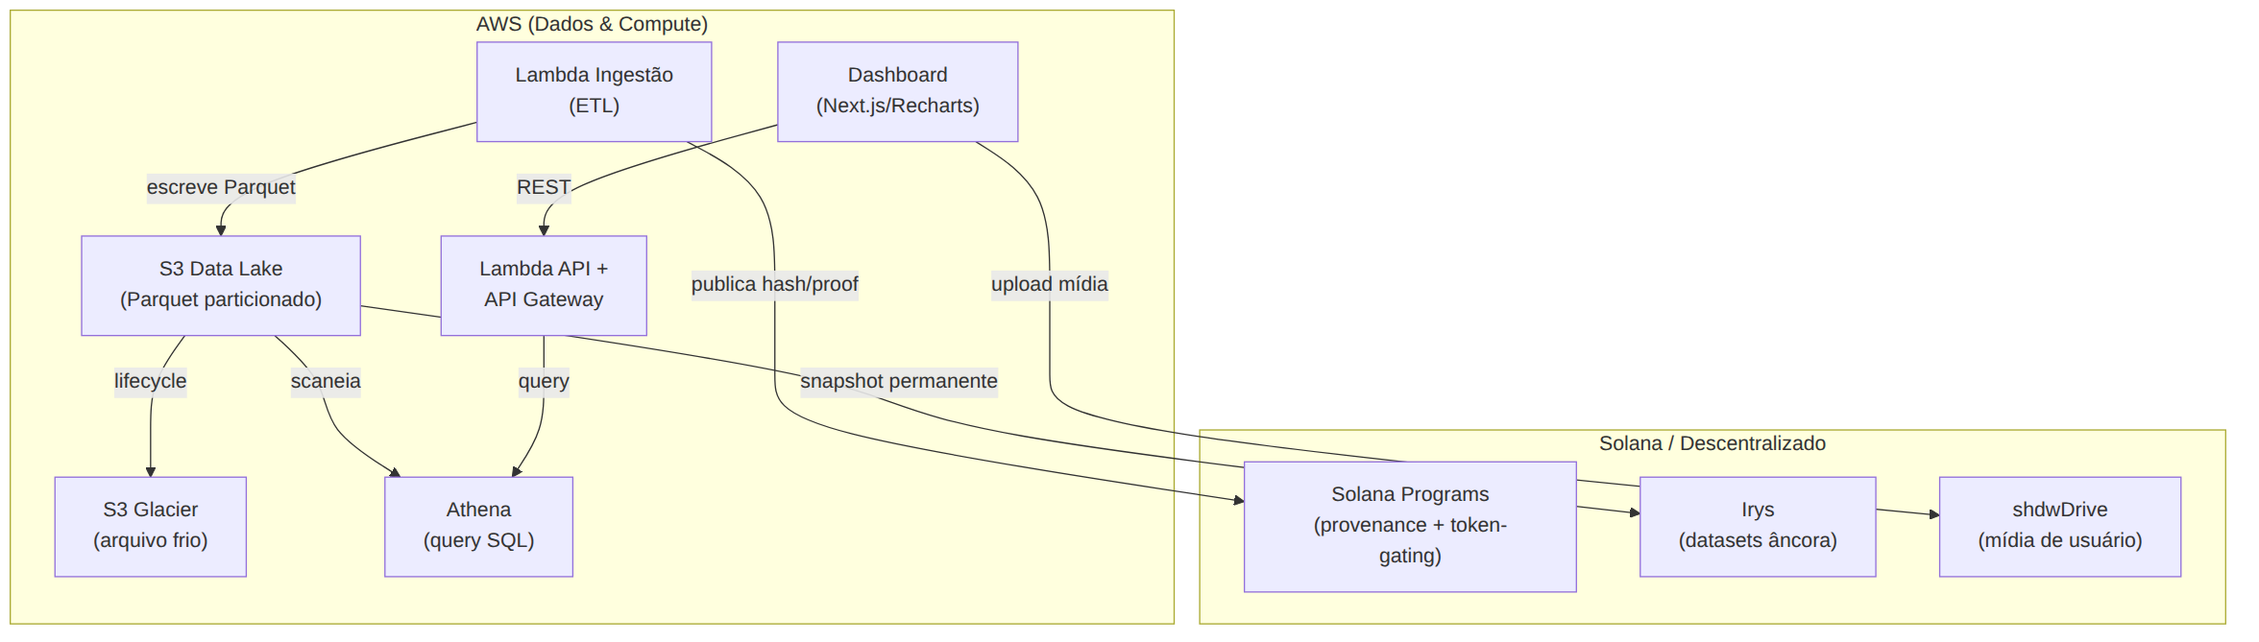
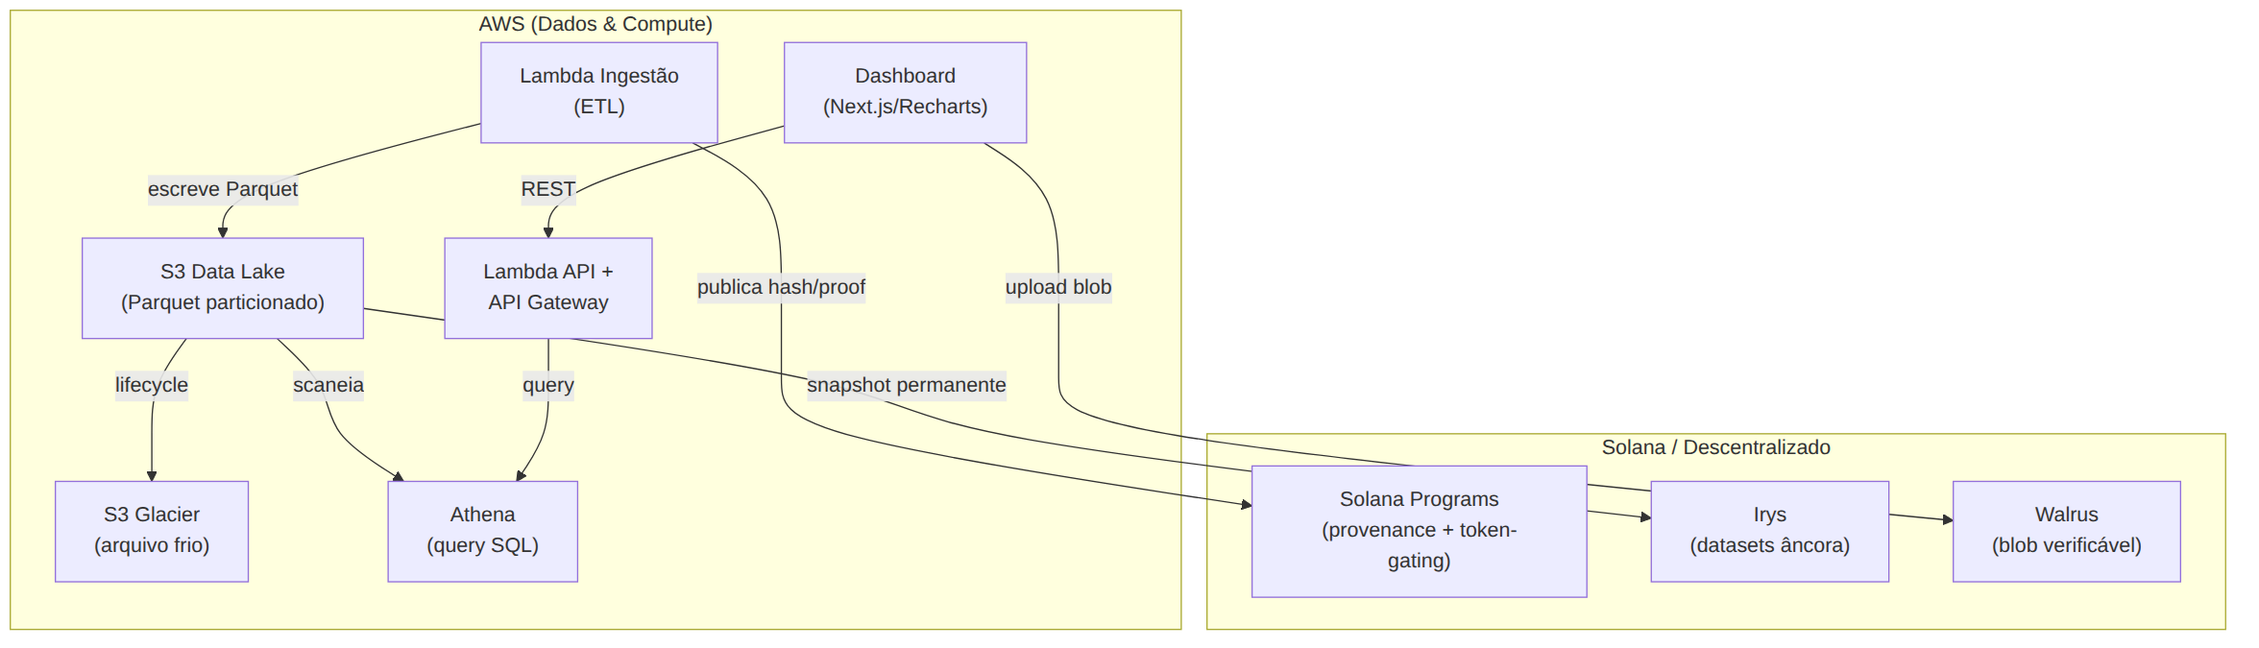
docs(research): Substitui shdwDrive (abandonado) por Walrus + corrige custos e diagramas

diff --git a/docs/research/ARMAZENAMENTO-DESCENTRALIZADO-SOLANA.md b/docs/research/ARMAZENAMENTO-DESCENTRALIZADO-SOLANA.md
@@ -18,24 +18,11 @@ Na Ethereum, o padrão é **IPFS** (roteamento de conteúdo, gratuito) + camada 
 
 ## 2. Soluções Nativas do Ecossistema Solana
 
-### 2.1 shdwDrive / Shadow Drive (GenesysGo) — o "IPFS da Solana"
+### 2.1 ⚠ shdwDrive / Shadow Drive (GenesysGo) — ABANDONADO
 
-Storage layer descentralizada construída **nativamente em Solana**, o análogo direto que o time procura.
+> **Status: projeto descontinuado.** Último release do `shadow-drive` (v1): ago/2023. `shdwDrive-v2-releases` (app Android): fev/2025 (8 stars, 0 issues). Docs oficiais: *"shdwDrive v1.5 is no longer maintained."* **NÃO usar para novos projetos.**
 
-| Aspecto | Detalhe |
-|---------|---------|
-| **Rede** | Solana (consenso próprio D.A.G.G.E.R. para replicação) |
-| **Token** | SHDW (pagamento em USDC para usuários) |
-| **Free tier** | 5 GB gratuito |
-| **Custo mutable** | **US$ 0,05 / GiB / ano** (~US$ 0,000274/GiB por epoch) |
-| **Modos** | Immutable (taxa única) e Mutable (recorrente) |
-| **Limite** | 1 TB por bucket (expansível) |
-| **Operadores** | Stake de SHDW como colateral (1 SHDW ≈ 51,2 MB; mínimo ~1.000 SHDW) |
-| **Revenue split** | 60–75% das taxas → operadores (USDC); resto → buyback SHDW |
-| **Adoção** | Recomendado como backend default por Helius e Triton (RPC providers) |
-
-**Prós:** integração nativa com wallets (Phantom/Solflare), programas e UX Solana; S3-like.
-**Contras:** adoção baixa fora do ecossistema Solana; herdou histórico de downtime da Solana; menos "permanente" que Arweave.
+**Substitutos ativos (ver seção 2.4):** Walrus (camada quente), Irys (permanente).
 
 ### 2.2 Armazenamento On-Chain Direto (Rent / Contas Solana)
 
@@ -97,7 +84,24 @@ Técnica nativa Solana para armazenar **dados de forma comprimida** — hashes e
 
 **Quando usar:** datasets on-chain programáveis, preço mais agressivo que Arweave, integração nativa com Solana (pagamento em SOL via wallet).
 
-### 3.3 Filecoin — storage marketplace (rental / cold storage)
+### 3.3 Walrus (Mysten Labs / Sui) — camada "quente" ativa (substituto do shdwDrive)
+
+> **Substituto recomendado do shdwDrive.** Projeto muito ativo (mainnet mar/2025, 450 TB, raise US$ 140M de Standard Crypto/a16z/Electric Capital, SDK atualizado ago/2026).
+
+| Aspecto | Detalhe |
+|---------|---------|
+| **Rede** | Sui (coordenation/governance) + nós de storage próprios |
+| **Modelo** | Blob storage com erasure coding (~4,5× encoded + 64 MB/blob) |
+| **Custo** | **US$ 0,023 / GB / mês** (fixo, denominado em USD, pago em WAL) |
+| **Permanência** | Term storage por epochs (1 epoch = 1 dia testnet / 2 semanas mainnet), extensível |
+| **Produtos** | Quilt (batch de arquivos pequenos), Seal (privacidade), MemWal (SDK memória p/ agentes) |
+| **Ecosystema** | 450 TB armazenados (superou Arweave), Team Liquid/Decrypt/Allium |
+
+**Quando usar:** dados quentes/mutáveis em volume, storage de blobs, memória de agentes. É cross-chain (não nativo Solana), mas é a alternativa madura e ativamente mantida ao shdwDrive.
+
+**Ressalva:** não é Solana-nativo (roda em Sui). Para integração 100% Solana, usar Irys (paga em SOL).
+
+### 3.4 Filecoin — storage marketplace (rental / cold storage)
 
 | Aspecto | Detalhe |
 |---------|---------|
@@ -129,14 +133,14 @@ Técnica nativa Solana para armazenar **dados de forma comprimida** — hashes e
 |---------|--------|--------------|-------------------|
 | **Solana rent (on-chain)** | Depósito reembolsável | ~696 lamports/byte (pós-redução) | inviável p/ big data |
 | **State Compression (cNFT)** | Hash on-chain | ~US$ 0,000005 / asset | escala massiva de ativos |
-| **shdwDrive (mutable)** | Recorrente | **US$ 0,05 / GB / ano** | ~US$ 50 / ano |
+| **Walrus (blob)** | Recorrente | **US$ 0,023 / GB / mês** (encoded 4,5×) | ~US$ 282 / TB / ano |
 | **Irys (permanente)** | One-time | **US$ 2,33 / GB** | ~US$ 2.382 |
 | **Arweave (permanente)** | One-time | ~US$ 36,5 / GB | ~US$ 37.362 |
 | **Filecoin (cold)** | Recorrente | US$ 0,002–0,02 / GB / mês | US$ 24–240 / ano |
 | **IPFS + Pinata** | Recorrente | US$ 0,15–0,50 / GB / mês | US$ 600–1.800 / ano |
 
 **Leitura de custo (ordem de grandeza por TB/ano):**
-- Mais barato recorrente: **shdwDrive (~US$ 50/TB/ano)** e **Filecoin cold (~US$ 24/TB/ano)**
+- Mais barato recorrente: **Filecoin cold (~US$ 24/TB/ano)**; Walrus custa ~US$ 282/TB/ano (encoded 4,5×) — no nível de S3 Standard.
 - Mais barato permanente: **Irys (~US$ 2,33/GB)**, depois Arweave (~US$ 36/GB)
 
 ---
@@ -153,7 +157,7 @@ O produto armazena datasets públicos (IPCA, ANP, commodities) com atualização
 
 3. **Datasets públicos "âncora" / permanentes** → **Irys** (US$ 2,33/GB one-time) como backup imutável e proof-of-existence, com wallet Solana.
 
-4. **Arquivos/mídia de usuários** (Passo 3, se houver) → **shdwDrive** (US$ 0,05/GB/ano) — nativo Solana, S3-like, free 5GB.
+4. **Arquivos/mídia de usuários** (Passo 3, se houver) → **S3** (custo, 4,5× mais barato) ou **Walrus** (quando o valor é verificabilidade/descentralização, ex. prova de autenticidade).
 
 **Racional:** big data não vai pra blockchain (custoso e lento); blockchain entra como **camada de verificação e monetização** (provenance, acesso token-gated, prova de que o dataset é autêntico), não como storage principal.
 

diff --git a/docs/prd/epic-1-solana-storage-poc.md b/docs/prd/epic-1-solana-storage-poc.md
@@ -25,7 +25,7 @@ Validar, **empiricamente e com números**, quais camadas de armazenamento da red
 - Solana **on-chain (rent)**: escrever dados em contas, medir depósito/custo por byte, reclamar (close) e verificar reembolso.
 - Solana **state compression (Merkle/Bubblegum)**: comprimir dados em árvore, medir custo por asset/leaf.
 - **Irys**: armazenar snapshot de dataset (permanente e term), medir custo + prova de existência.
-- **shdwDrive**: armazenar dados mutáveis, medir custo/ano + latência.
+- **Walrus**: armazenar blob (mutável), medir custo/mês + latência + verificabilidade.
 - **AWS baseline**: S3 (Standard, IA, Glacier Deep Archive) para comparação 1:1.
 - **Harness de métricas**: coleta unificada de custo (SOL/USDC gasto, USD equivalente) e performance (latência, throughput, tamanho).
 
@@ -33,7 +33,7 @@ Validar, **empiricamente e com números**, quais camadas de armazenamento da red
 - Token-gating / pagamento por acesso (Fase 3).
 - Frontend/dashboard (Fase 2).
 - ETL completo dos datasets (já é o Passo 2 do MVP de dados, epics separados).
-- Arweave e Filecoin (documentados, mas fora do PoC ativo — foco em Solana + Irys + shdwDrive).
+- Arweave e Filecoin (documentados, mas fora do PoC ativo — foco em Solana + Irys + Walrus).
 
 ---
 
@@ -56,10 +56,10 @@ Validar, **empiricamente e com números**, quais camadas de armazenamento da red
 - **FR-010** — Registrar custo de armazenamento permanente (USD/GB) e term storage.
 - **FR-011** — Ler o dado de volta (retrieval) e verificar proof-of-existence.
 
-### Módulo D — shdwDrive
-- **FR-012** — Criar storage account e bucket (free 5GB + expansão).
-- **FR-013** — Fazer upload de dados mutáveis; medir custo (US$ 0,05/GiB/ano) e latência.
-- **FR-014** — Fazer download/leitura; medir latência e throughput.
+### Módulo D — Walrus (blob storage)
+- **FR-012** — Configurar client Walrus (testnet/mainnet) e wallet Sui.
+- **FR-013** — Fazer upload de blob mutável; medir custo (US$ 0,023/GB/mês, encoded 4,5×) e latência.
+- **FR-014** — Fazer download/leitura; medir latência e throughput; verificar encoded size real.
 
 ### Módulo E — AWS Baseline (comparação)
 - **FR-015** — Escrever o mesmo payload em S3 (Standard, IA, Glacier Deep Archive).
@@ -87,7 +87,7 @@ Validar, **empiricamente e com números**, quais camadas de armazenamento da red
 ## 5. Constraints (CON-*)
 
 - **CON-001** — Usar **devnet** Solana para a maior parte (custo zero real); 1-2 operações em mainnet apenas para custo real, com orçamento máximo de ~0.1 SOL.
-- **CON-002** — Stack de script: **TypeScript** (consistente com Passo 2 CDK) via `@solana/web3.js`, `@metaplex-foundation`, `@irys/sdk`, `@shadow-drive/sdk` (ou CLI oficial quando SDK imaturo).
+- **CON-002** — Stack de script: **TypeScript** (consistente com Passo 2 CDK) via `@solana/web3.js`, `@metaplex-foundation`, `@irys/sdk`, `@mysten/walrus` (ou CLI `walrus`).
 - **CON-003** — Preço SOL/USDC coletado de fonte confiável (CoinGecko/Binance API) no momento do benchmark.
 - **CON-004** — Sem deploy de infra AWS nova para o PoC (reuso do que já existe; baseline S3 pode ser local/scriptada).
 
@@ -101,7 +101,7 @@ Validar, **empiricamente e com números**, quais camadas de armazenamento da red
 | 1.2 | Como dev, quero medir custo de armazenar bytes on-chain (rent). | FR-002..005 com custo/byte registrado |
 | 1.3 | Como dev, quero medir custo de state compression (Merkle). | FR-006..008 |
 | 1.4 | Como dev, quero medir custo do Irys (permanente + term). | FR-009..011 |
-| 1.5 | Como dev, quero medir custo e latência do shdwDrive. | FR-012..014 |
+| 1.5 | Como dev, quero medir custo e latência do Walrus (blob). | FR-012..014 |
 | 1.6 | Como dev, quero uma baseline AWS S3 comparável. | FR-015..016 |
 | 1.7 | Como dev, quero um harness de métricas unificado. | FR-017..018 |
 | 1.8 | Como PO, quero a matriz de benchmark Solana × AWS. | FR-019 (relatório final) |
@@ -122,7 +122,7 @@ Validar, **empiricamente e com números**, quais camadas de armazenamento da red
 
 | Risco | Prob. | Impacto | Mitigação |
 |-------|-------|---------|-----------|
-| SDK shdwDrive/Irys imaturo | Média | Alto | Usar CLI oficial como fallback |
+| SDK Walrus/Irys imaturo | Média | Alto | Usar CLI oficial como fallback |
 | Custo mainnet variável | Alta | Médio | Devnet p/ volume; mainnet só 1-2 ops com teto de 0.1 SOL |
 | Rate limit de RPC | Baixa | Médio | Backoff exponencial + cache |
 | Preço SOL volátil | Alta | Médio | Registrar preço no instante + média móvel |

diff --git a/docs/research/COMPARATIVO-CUSTO-SOLANA-VS-AWS.md b/docs/research/COMPARATIVO-CUSTO-SOLANA-VS-AWS.md
@@ -12,7 +12,7 @@
 
 | Solução | Modelo | Custo |
 |---------|--------|-------|
-| shdwDrive (mutable) | Recorrente | US$ 0,05 / GB / ano |
+| Walrus (blob) | Recorrente | US$ 0,023 / GB / mês (encoded 4,5× + 64MB/blob) |
 | Irys (permanente) | One-time | US$ 2,33 / GB |
 | Arweave (permanente) | One-time | ~US$ 36,5 / GB |
 | Filecoin cold | Recorrente | US$ 0,002–0,02 / GB / mês |
@@ -45,13 +45,13 @@
 
 | | AWS | Descentralizado | Vencedor |
 |---|---|---|---|
-| **Custo 1 TB / ano (acesso quente)** | S3 Standard: US$ 0,023 × 12 × 1024 = **US$ 282/ano** | shdwDrive: **US$ 51/ano** | 🏆 Descentralizado (5× mais barato) |
+| **Custo 1 TB / ano (acesso quente)** | S3 Standard: US$ 0,023 × 12 × 1024 = **US$ 282/ano** | Walrus: US$ 0,023 × 12 × (1024×4,5) = **US$ 1.272/ano** | 🏆 AWS (4,5× mais barato) |
 | **Custo 1 TB / ano (arquivo frio)** | Deep Archive: US$ 0,00099 × 12 × 1024 = **US$ 12/ano** | Filecoin cold: US$ 0,002 × 12 × 1024 = **US$ 25/ano** | 🏆 AWS (2× mais barato) |
 | **Query SQL ad-hoc** | Athena US$ 5/TB escaneado | Não existe nativamente | 🏆 AWS |
 | **Latência de leitura** | ms (S3 Standard) | gateway-dependente | 🏆 AWS (garantia de SLA) |
 | **Egresso** | US$ 0,09/GB | variável | ⚖ Depende |
 
-**Conclusão:** para dados quentes com query SQL, AWS ganha por funcionalidade (Athena/Parquet). shdwDrive é mais barato no armazenamento bruto, mas perde em query + latência garantida.
+**Conclusão:** para dados quentes com query SQL, **AWS ganha com folga** (mais barato + Athena + SLA). Walrus só compensa quando o valor é descentralização/verificabilidade, não custo.
 
 ### Caso B — Datasets "âncora" permanentes (imutáveis, proof-of-existence)
 
@@ -77,11 +77,11 @@
 
 | | AWS | Descentralizado | Vencedor |
 |---|---|---|---|
-| **Custo 1 TB / ano (mutável)** | S3 Standard US$ 282/ano + egresso | shdwDrive US$ 51/ano | 🏆 Descentralizado (5×) |
-| **UX de integração Solana** | Não (precisa ponte) | ✅ Nativo (wallet Phantom) | 🏆 Descentralizado |
-| **SLA / suporte** | ✅ Garantido | ⚠ Menor adoção | 🏆 AWS |
+| **Custo 1 TB / ano (mutável)** | S3 Standard US$ 282/ano + egresso | Walrus US$ 1.272/ano (encoded 4,5×) | 🏆 AWS (4,5×) |
+| **Verificabilidade/descentralização** | ❌ Centralizado | ✅ Verificável, tamper-proof | 🏆 Descentralizado |
+| **SLA / suporte** | ✅ Garantido | ✅ Cloud-level (Walrus) | ⚖ Empate |
 
-**Conclusão:** mídia de usuário em app Solana-native → **shdwDrive** (custo + UX). Se a prioridade for SLA → S3.
+**Conclusão:** mídia de usuário → **S3 por custo**; **Walrus** quando o valor é verificabilidade/descentralização (ex.: prova de autenticidade do dataset para o cliente). O shdwDrive antigo (US$ 0,05/GB/ano) era mais barato, mas está abandonado.
 
 ### Caso E — Processamento / query / analytics (o "big data" do Marcelo)
 
@@ -99,12 +99,12 @@
 
 | Cenário | AWS | Descentralizado | Economia |
 |---------|-----|-----------------|----------|
-| 1 TB dados quentes / ano | US$ 282 | US$ 51 (shdwDrive) | 5× mais barato no descentralizado |
+| 1 TB dados quentes / ano | US$ 282 | US$ 1.272 (Walrus, encoded 4,5×) | AWS 4,5× mais barato |
 | 1 TB arquivo frio / ano | US$ 12 | US$ 25 (Filecoin) | 2× mais barato no AWS |
 | 1 GB permanente / para sempre | US$ 276 (100 anos) | US$ 2,33 (Irys) | 100× mais barato no descentralizado |
 | Query 1 TB escaneado | US$ 5 (Athena) | n/a | AWS único |
 
-**Leitura:** AWS é imbatível em **frio + query/processamento**; o descentralizado é imbatível em **permanência + custo de armazenamento quente + prova trustless**.
+**Leitura (corrigida):** AWS é imbatível em **custo de armazenamento (quente e frio) + query/processamento**. O descentralizado só ganha em **permanência one-time (Irys US$ 2,33/GB)** e **prova trustless** — o valor de blockchain aqui é *verificação*, não *custo*.
 
 ---
 

diff --git a/docs/PLANO-DESENVOLVIMENTO-FASE-1.md b/docs/PLANO-DESENVOLVIMENTO-FASE-1.md
@@ -9,7 +9,7 @@
 
 ## 1. Objetivo da Fase
 
-Validar empiricamente o custo e a performance de armazenamento na rede Solana (rent, state compression, Irys, shdwDrive) contra a baseline AWS S3, produzindo uma **matriz de benchmark** com números medidos que alimenta a decisão de placement do produto.
+Validar empiricamente o custo e a performance de armazenamento na rede Solana (rent, state compression, Irys, Walrus) contra a baseline AWS S3, produzindo uma **matriz de benchmark** com números medidos que alimenta a decisão de placement do produto.
 
 **Critério de done da fase:** `docs/research/BENCHMARK-RESULTS.md` com custo USD/GB + latência + throughput medidos em ≥ 4 camadas + recomendação por caso de uso.
 
@@ -25,7 +25,7 @@ Validar empiricamente o custo e a performance de armazenamento na rede Solana (r
 | 1.2 | Benchmark On-Chain (rent) | 1.1 | 0.5d | Benchmark |
 | 1.3 | Benchmark State Compression | 1.1 | 0.5d | Benchmark |
 | 1.4 | Benchmark Irys | 1.1 | 0.5d | Benchmark |
-| 1.5 | Benchmark shdwDrive | 1.1 | 1d | Benchmark |
+| 1.5 | Benchmark Walrus (blob) | 1.1 | 1d | Benchmark |
 | 1.6 | Baseline AWS S3 | 1.1, 1.7 | 0.5d | Benchmark |
 | 1.7 | Harness de Métricas | 1.1 | 0.5d | Infra |
 | 1.8 | Matriz Comparativa (relatório) | 1.2–1.7 | 0.5d | Entrega |
@@ -41,7 +41,7 @@ Validar empiricamente o custo e a performance de armazenamento na rede Solana (r
 - 1.7 deve sair ANTES dos benchmarks para todos emitirem métricas no mesmo schema.
 
 ### Fase B — Benchmarks (2 dias, PARALELO)
-- **1.2** (rent) ∥ **1.3** (compression) ∥ **1.4** (Irys) ∥ **1.5** (shdwDrive) — independentes entre si.
+- **1.2** (rent) ∥ **1.3** (compression) ∥ **1.4** (Irys) ∥ **1.5** (Walrus) — independentes entre si.
 - **1.6** (AWS baseline) pode rodar em paralelo também (não depende de Solana).
 
 ### Fase C — Consolidação (1 dia)
@@ -84,12 +84,12 @@ Validar empiricamente o custo e a performance de armazenamento na rede Solana (r
 - rent: lamports/byte efetivo → USD via preço SOL timestampado.
 - compression: custo total da árvore + por leaf, × depth/canopy.
 - Irys: USD/GB permanente + term.
-- shdwDrive: US$ 0,05/GiB/ano (verificar real).
+- Walrus: US$ 0,023/GB/mês (encoded 4,5× — verificar real).
 - S3: US$/GB/mês por classe (Standard/IA/Deep Archive).
 
 ### Performance
 - **Latência escrita** (ms): tempo até confirmação (Solana: ~400ms block time; S3: ms).
-- **Latência leitura** (ms): retrieval (S3 Glacier: 12-48h; Irys/shadow: gateway).
+- **Latência leitura** (ms): retrieval (S3 Glacier: 12-48h; Irys/Walrus: gateway).
 - **Throughput** (MB/s): upload/download.
 
 ### Qualidade
@@ -100,7 +100,7 @@ Validar empiricamente o custo e a performance de armazenamento na rede Solana (r
 ### Thresholds de validação
 | Métrica | Alvo | Nota |
 |---------|------|------|
-| Nº camadas medidas | ≥ 4 | rent, compression, Irys, shdwDrive, S3 |
+| Nº camadas medidas | ≥ 4 | rent, compression, Irys, Walrus, S3 |
 | Custo registrado em USD | 100% ops | com preço timestampado |
 | Latência medida | 100% ops | escrita + leitura |
 | Repro executável | 1 comando | `npm run bench` |
@@ -111,7 +111,7 @@ Validar empiricamente o custo e a performance de armazenamento na rede Solana (r
 
 | Risco | Mitigação |
 |-------|-----------|
-| SDK shdwDrive/Irys imaturo | Fallback CLI oficial |
+| SDK Walrus/Irys imaturo | Fallback CLI oficial |
 | Custo mainnet alto | Devnet p/ volume; mainnet 1-2 ops teto 0.1 SOL |
 | Preço SOL volátil | Registrar no instante + média móvel |
 | Rate limit RPC | Backoff exponencial + cache |

diff --git a/docs/research/DECISAO-PLACEMENT-SOLANA-VS-AWS.md b/docs/research/DECISAO-PLACEMENT-SOLANA-VS-AWS.md
@@ -33,7 +33,7 @@ Regra de decisão em 3 perguntas:
 | 10 | Auth / identidade do usuário | Controle de acesso | **JWT (AWS)** no MVP → **Solana (wallet signature)** no Passo 3 | MVP simples; depois login via wallet = token-gating nativo |
 | 11 | Controle de acesso / token-gating a datasets | Monetização | **Solana (programs + SPL/NFT)** | Pagamento por acesso on-chain, sem intermediário |
 | 12 | Assinatura de planos (Free/Pro/Enterprise) | Monetização | **Solana (payment)** no Passo 3 | Trilha de pagamento transparente; prêmio pede Solana |
-| 13 | Mídia/arquivos de usuários (se houver upload) | Storage | **shdwDrive** (ou S3) | US$ 0,05/GB/ano + UX nativa Solana; S3 se priorizar SLA |
+| 13 | Mídia/arquivos de usuários (se houver upload) | Storage | **S3** (custo) ou **Walrus** (verificabilidade) | S3 é 4,5× mais barato; Walrus p/ prova de autenticidade |
 | 14 | Logs / monitoramento / alertas | Ops | **AWS CloudWatch + SNS** | Observabilidade; não há equivalente descentralizado maduro |
 | 15 | CI/CD | DevOps | **GitHub Actions + CDK** | Deploy IaC; já definido no Passo 2 |
 
@@ -59,7 +59,7 @@ Regra de decisão em 3 perguntas:
 │  [On-chain accounts]  hashes + provenance + PDA         │
 │  [State compression]  integridade em escala              │
 │  [Irys]  datasets âncora permanentes (proof-of-existence)│
-│  [shdwDrive]  mídia de usuário (opcional)                │
+│  [Walrus]  blob storage verificável (opcional)          │
 │  [Programs/SPL]  token-gating + pagamento por acesso     │
 │                                                         │
 └─────────────────────────────────────────────────────────┘
@@ -81,7 +81,7 @@ Regra de decisão em 3 perguntas:
 ### Fase 3 — Monetização (token-gating)
 - **Login via wallet Solana** (substitui JWT).
 - **Pagamento por acesso** on-chain (SPL/USDC ou token próprio).
-- **shdwDrive** para mídia de usuário, se houver.
+- **Walrus** para blobs verificáveis (se valor = descentralização, não custo).
 
 ---
 
@@ -94,7 +94,7 @@ Regra de decisão em 3 perguntas:
 | **Permanência / imutabilidade** | Irys (on-chain proof) |
 | **Integridade / provenance** | Solana on-chain (hash) |
 | **Controle de acesso / pagamento** | Solana (token-gating) |
-| **Mídia de usuário** | shdwDrive (ou S3) |
+| **Mídia de usuário** | S3 (custo) ou Walrus (verificabilidade) |
 | **Ops / monitoramento** | AWS CloudWatch |
 
 ---

diff --git a/docs/stories/epic-1/STORY-1.5-benchmark-walrus.md b/docs/stories/epic-1/STORY-1.5-benchmark-walrus.md
@@ -1,0 +1,27 @@
+# STORY 1.5 — Benchmark Walrus (Blob Storage)
+
+**Status:** Draft
+**Epic:** 1 (PoC de Armazenamento Solana)
+**Agente:** @dev (Dex)
+
+## Descrição
+Configurar client Walrus (substituto do shdwDrive, que está abandonado), fazer upload/download de blobs, e medir custo real (encoded size 4,5×) + latência + throughput + verificabilidade.
+
+## Critérios de Aceitação
+- [ ] Instalar CLI `walrus` + `suiup` (testnet) e configurar wallet Sui.
+- [ ] Obter SUI (gas) + WAL (storage) de faucet/swap testnet.
+- [ ] Upload de blob (1MB, 10MB, 100MB) via CLI/SDK.
+- [ ] Registrar custo real: `walrus info` + encoded size (4,5× original + 64MB/blob) → US$ 0,023/GB/mês.
+- [ ] Download/leitura: medir latência (ms) e throughput (MB/s).
+- [ ] Registrar métricas no schema unificado (`layer = "walrus"`).
+
+## Notas Técnicas
+- Custo efetivo: `encoded_GB = 4,5 × original_GB + 0,064`; `custo_mês = encoded_GB × US$ 0,023`.
+- Walrus é Sui (não Solana nativo) — anotar isso no resultado.
+- `walrus store --dry-run` confirma encoded size antes de gastar.
+
+## Dependências
+- DEP-002: STORY 1.1 (harness schema).
+
+## Estimativa
+~1 dia (curva do CLI Sui/Walrus)

diff --git a/docs/architecture/C4-DIAGRAM.md b/docs/architecture/C4-DIAGRAM.md
@@ -47,7 +47,7 @@ flowchart TB
     subgraph Web3["Solana / Descentralizado"]
         Chain["Solana Programs<br/>(provenance + token-gating)"]
         Irys["Irys<br/>(datasets âncora)"]
-        Shdw["shdwDrive<br/>(mídia de usuário)"]
+        Walrus["Walrus<br/>(blob verificável)"]
     end
 
     Ingest -->|"escreve Parquet"| S3
@@ -58,7 +58,7 @@ flowchart TB
 
     Ingest -->|"publica hash/proof"| Chain
     S3 -->|"snapshot permanente"| Irys
-    Frontend -->|"upload mídia"| Shdw
+    Frontend -->|"upload blob"| Walrus
 ```
 
 ---
@@ -121,7 +121,7 @@ sequenceDiagram
 - **Dados brutos & query** ficam na AWS (S3 + Athena) — ver `DECISAO-PLACEMENT-SOLANA-VS-AWS.md`.
 - **Solana** entra como camada de *provenance* (hash on-chain) e *monetização* (token-gating), não como storage de big data.
 - **Irys** guarda snapshots "âncora" permanentes (US$ 2,33/GB) para proof-of-existence.
-- **shdwDrive** é opcional (mídia de usuário, US$ 0,05/GB/ano).
+- **Walrus** é opcional (blob verificável, US$ 0,023/GB/mês — substitui o shdwDrive abandonado).
 
 ---
 

diff --git a/docs/stories/epic-1/STORY-1.8-benchmark-matrix.md b/docs/stories/epic-1/STORY-1.8-benchmark-matrix.md
@@ -8,7 +8,7 @@
 Consolidar os resultados medidos em uma **matriz comparativa Solana × AWS** com recomendação por caso de uso.
 
 ## Critérios de Aceitação
-- [ ] Matriz: linhas = camadas (rent, compression, Irys, shdwDrive, S3×3); colunas = custo USD/GB, latência escrita, latência leitura, throughput, permanência.
+- [ ] Matriz: linhas = camadas (rent, compression, Irys, Walrus, S3×3); colunas = custo USD/GB, latência escrita, latência leitura, throughput, permanência.
 - [ ] Recomendação explícita por caso de uso (dados quentes, frios, âncora, provenance, mídia).
 - [ ] Publicar como `docs/research/BENCHMARK-RESULTS.md` + tabela CSV.
 - [ ] Atualizar `DECISAO-PLACEMENT-SOLANA-VS-AWS.md` com números reais (substituir estimativas).

diff --git a/docs/stories/epic-1/STORY-1.1-solana-env-harness.md b/docs/stories/epic-1/STORY-1.1-solana-env-harness.md
@@ -9,7 +9,7 @@ Configurar o ambiente Solana (devnet), wallet com funding, CLI oficial, e a estr
 
 ## Critérios de Aceitação
 - [ ] Projeto TypeScript inicializado (`package.json`, `tsconfig`, `.gitignore` com `.env`).
-- [ ] Dependências instaladas: `@solana/web3.js`, `@project-serum/anchor` (ou só web3), `@irys/sdk`, `@shadow-drive/sdk` (ou CLI), `@metaplex-foundation/js`.
+- [ ] Dependências instaladas: `@solana/web3.js`, `@irys/sdk`, `@metaplex-foundation/js` (Walrus usa CLI separado).
 - [ ] Wallet Solana criada em **devnet** com funding (airdrop ≥ 1 SOL).
 - [ ] `solana` CLI funcional (`solana balance` retorna saldo devnet).
 - [ ] Comando `npm run hello` faz 1 transação trivial (airdrop/transfer) e imprime saldo + latência.
